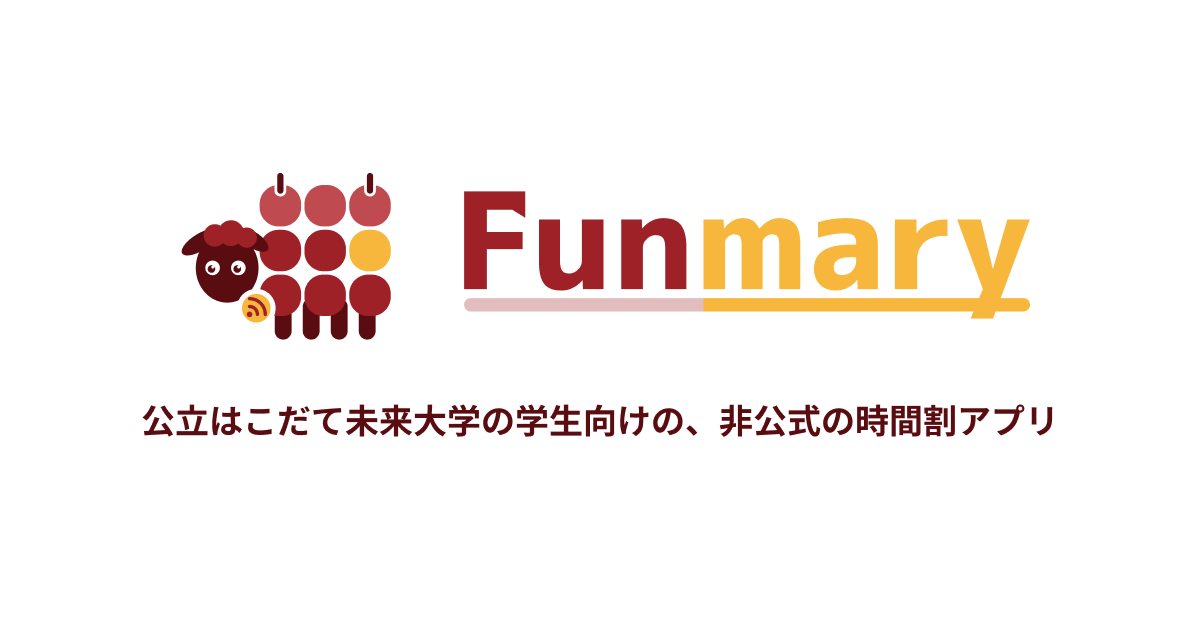
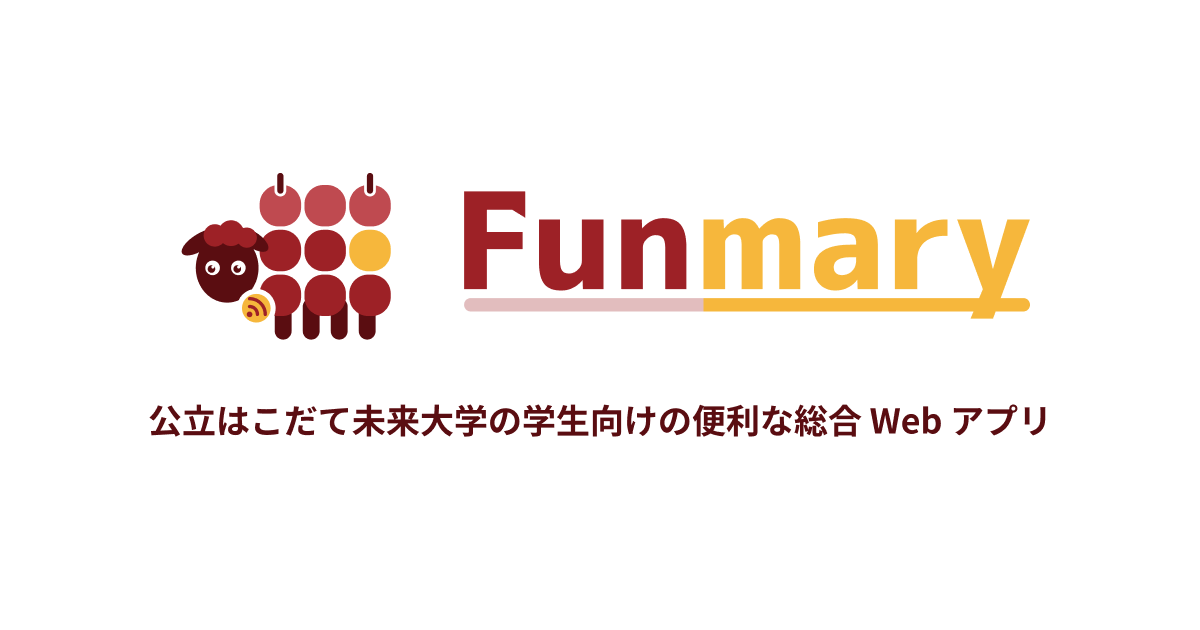
feat(web): OGP 画像を Figma の新しいデザインに差し替える
fix(web): トップ画面の紹介文を正式な文言に統一する

紹介文が「公立はこだて未来大学の学生のための時間割アプリ」のような
古い文言になっていたのを、ほかの画面と同じ「公立はこだて未来大学の
学生向けの便利な総合 Web アプリ」に統一する

Changed region(s): [[0.1233, 0.6333, 0.8942, 0.6937]]

diff --git a/apps/web/src/lib/components/Landing.svelte b/apps/web/src/lib/components/Landing.svelte
@@ -60,8 +60,8 @@
 			</h1>
 			<p class="subcatch">履修の取り込みから、休講、教室変更、カレンダー連携、AI 連携まで。</p>
 			<p class="lead">
-				Funmary
-				は、公立はこだて未来大学の学生のための時間割アプリです。学生ポータルの休講、補講、教室変更を、あなたの時間割にまとめて出します。
+				Funmary は、公立はこだて未来大学の学生向けの便利な総合 Web
+				アプリです。学生ポータルの休講、補講、教室変更を、あなたの時間割にまとめて出します。
 			</p>
 
 			<div class="start">
